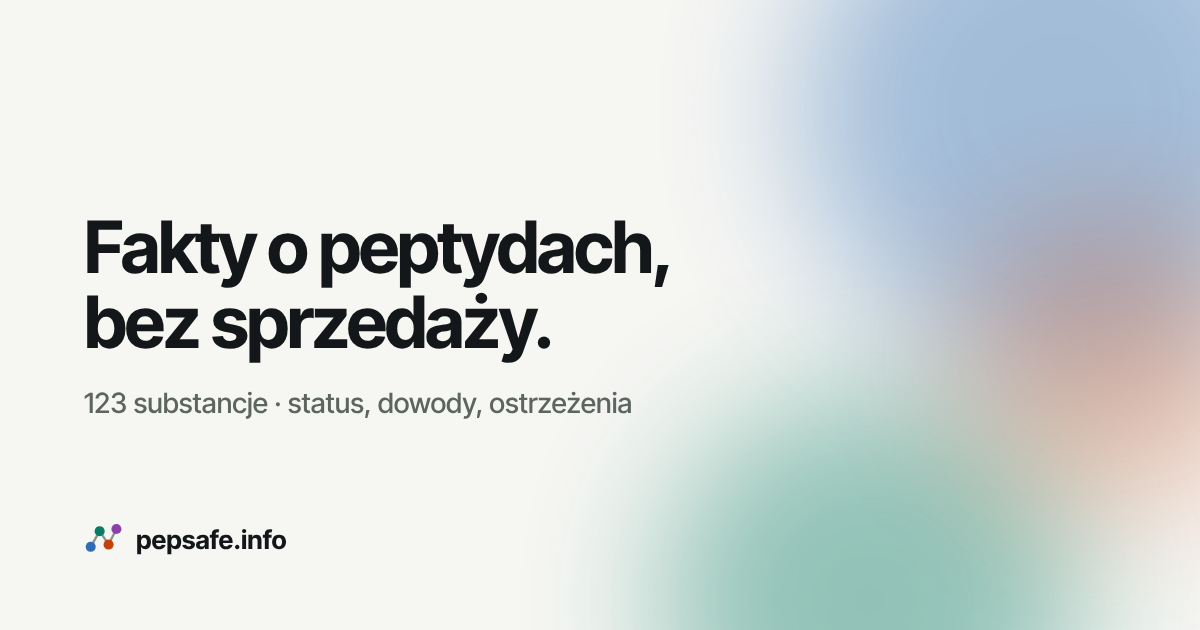
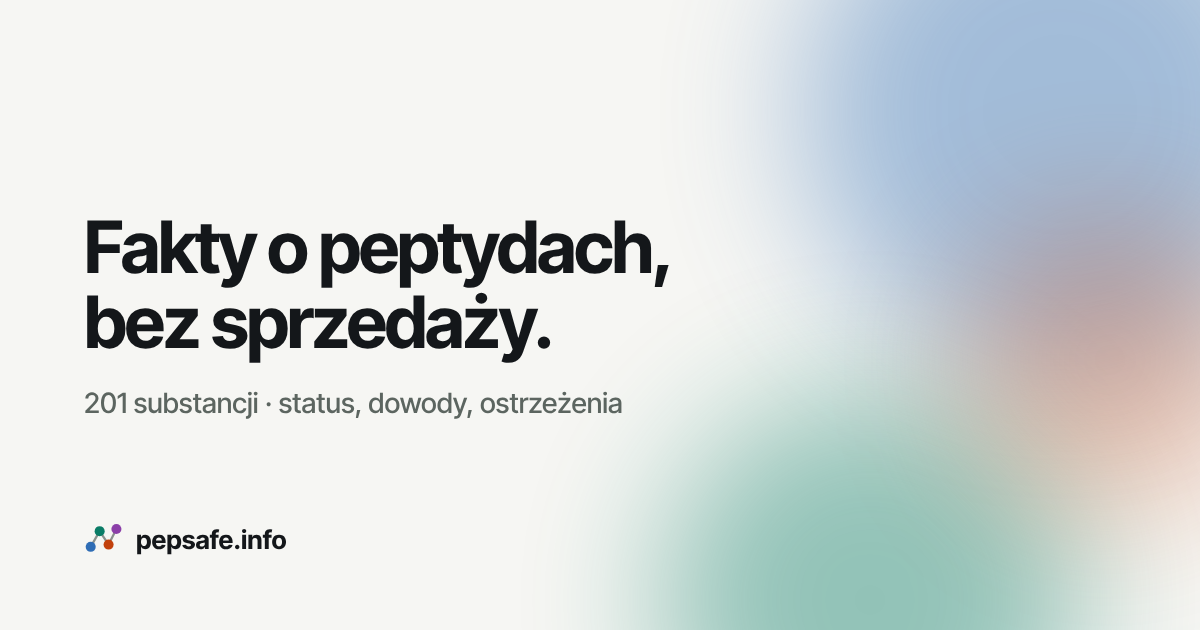
obrazek udostepniania liczy wpisy z katalogu zamiast stalej liczby

Changed region(s): [[0.2158, 0.6032, 0.5242, 0.6635], [0.0617, 0.6032, 0.1233, 0.6635]]

diff --git a/tools/og.js b/tools/og.js
@@ -1,10 +1,12 @@
 // Buduje obrazek pokazywany przy udostepnianiu linku (1200x630), po jednym na jezyk.
 const { chromium } = require('playwright');
 const fs = require('fs'), path = require('path');
+// liczba wpisow prosto z katalogu, zeby obrazek nie klamal po kazdym dodaniu substancji
+const N = (fs.readFileSync(path.join(__dirname, '..', 'dane.html'), 'utf8').match(/^E\(/gm) || []).length;
 const OUT = path.join(__dirname, '..', 'src');
 const T = {
-  en: { h: 'Peptide facts,<br>not sales.', p: '123 substances · status, evidence, warnings', d: 'pepsafe.info' },
-  pl: { h: 'Fakty o peptydach,<br>bez sprzedaży.', p: '123 substancje · status, dowody, ostrzeżenia', d: 'pepsafe.info' }
+  en: { h: 'Peptide facts,<br>not sales.', p: `${N} substances · status, evidence, warnings`, d: 'pepsafe.info' },
+  pl: { h: 'Fakty o peptydach,<br>bez sprzedaży.', p: `${N} substancji · status, dowody, ostrzeżenia`, d: 'pepsafe.info' }
 };
 const page = t => `<!doctype html><meta charset="utf-8">
 <style>
